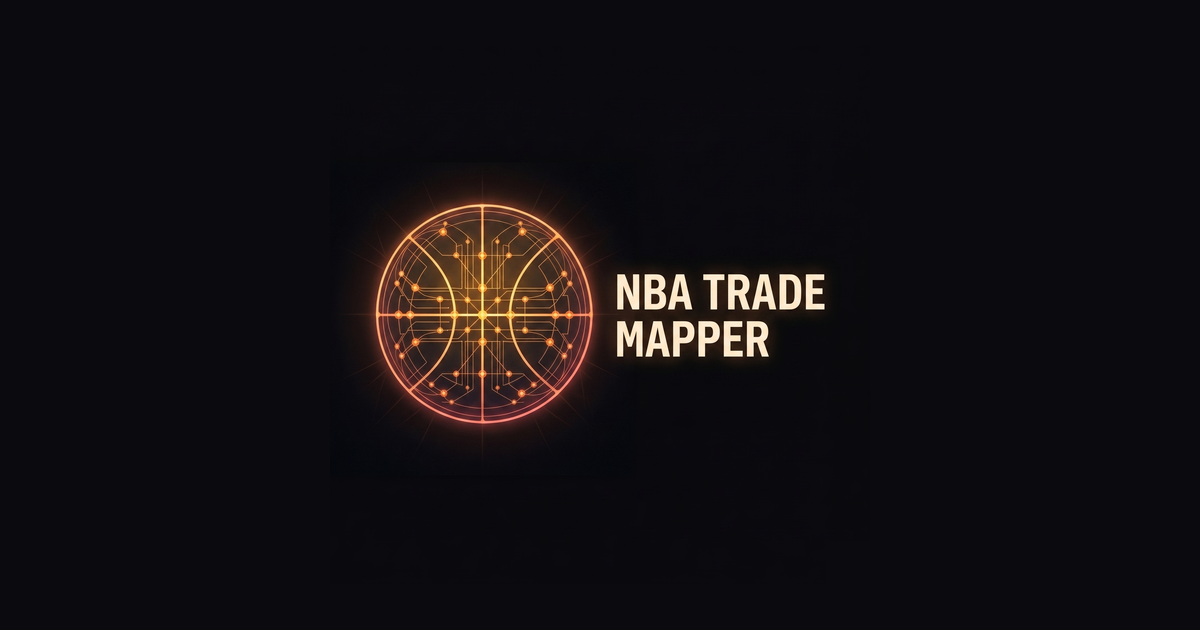
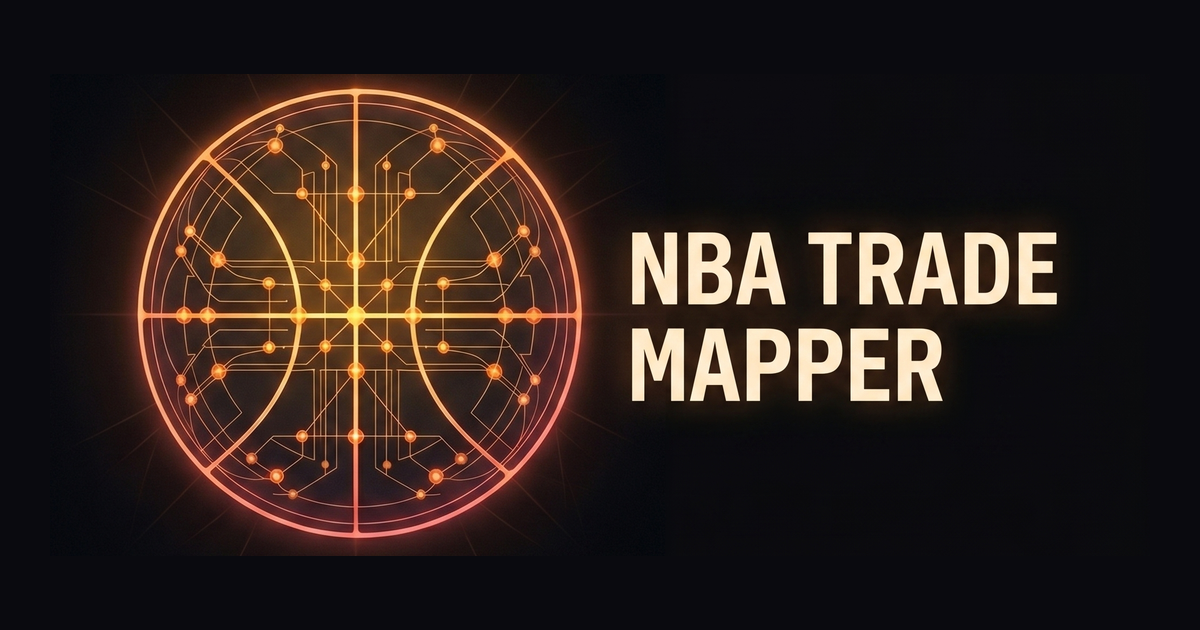
Share cards: source from horizontal lockup so wordmark reads on small thumbs (#19)
Old og-default/twitter-card composited the square Gemini lockup (basketball
above stacked wordmark) at height 540 in a 1200×630/600 canvas. At thumb
sizes the wordmark went tiny and link previews effectively read as
basketball-only.

Switch share cards to source from the new 2036×893 horizontal lockup
(brand/source-horizontal-master.png) — basketball + "NBA TRADE / MAPPER"
side-by-side, wordmark sized to match the mark. Resize width-fit to 1100
in the canvas so the lockup fills the share frame.

Build script also drops the "crop horizontal from square" step since we
now source the horizontal master directly.

diff --git a/scripts/build-brand-assets.ts b/scripts/build-brand-assets.ts
@@ -1,5 +1,7 @@
-// Build all brand asset sizes from the master source PNG.
-// Source: brand/source-29-master.png (2048×2048, the locked Gemini lockup #29)
+// Build all brand asset sizes from the master source PNGs.
+// Sources:
+//   - brand/source-29-master.png (2048×2048): square Gemini lockup #29 — used for the basketball mark crop
+//   - brand/source-horizontal-master.png (2036×893): horizontal Gemini lockup — used for share cards
 // Outputs: brand/ masters + public/ deployable assets + src/app/favicon.ico
 //
 // Run: npx tsx scripts/build-brand-assets.ts
@@ -11,6 +13,7 @@ import pngToIco from 'png-to-ico';
 
 const ROOT = process.cwd();
 const SRC = join(ROOT, 'brand/source-29-master.png');
+const SRC_HORIZONTAL = join(ROOT, 'brand/source-horizontal-master.png');
 const BRAND = join(ROOT, 'brand');
 const PUBLIC = join(ROOT, 'public');
 const APP = join(ROOT, 'src/app');
@@ -56,11 +59,9 @@ async function buildLockupCleaned() {
   return buf;
 }
 
-async function buildLockupHorizontal(lockupSquare: Buffer) {
-  const buf = await sharp(lockupSquare)
-    .resize({ width: 2400, height: 800, fit: 'cover', position: 'center' })
-    .png()
-    .toBuffer();
+async function buildLockupHorizontal() {
+  // The horizontal source is already the right composition — copy as the master.
+  const buf = await sharp(SRC_HORIZONTAL).png().toBuffer();
   await writeFile(join(BRAND, 'lockup-horizontal-master.png'), buf);
   return buf;
 }
@@ -73,12 +74,13 @@ async function makeMarkSize(markBuf: Buffer, size: number, outPath: string, opaq
   return buf;
 }
 
-async function makeOgDefault(lockupSquare: Buffer) {
+async function makeOgDefault(lockupHorizontal: Buffer) {
   const canvas = sharp({
     create: { width: 1200, height: 630, channels: 4, background: BG },
   });
-  const inner = await sharp(lockupSquare)
-    .resize({ height: 540, fit: 'contain', background: BG })
+  // Horizontal lockup ~2036×893 (ratio 2.28). Width-fit to 1100 leaves padding.
+  const inner = await sharp(lockupHorizontal)
+    .resize({ width: 1100, fit: 'contain', background: BG })
     .png()
     .toBuffer();
   const innerMeta = await sharp(inner).metadata();
@@ -91,12 +93,12 @@ async function makeOgDefault(lockupSquare: Buffer) {
   await writeFile(join(PUBLIC, 'og-default.png'), buf);
 }
 
-async function makeTwitterCard(lockupSquare: Buffer) {
+async function makeTwitterCard(lockupHorizontal: Buffer) {
   const canvas = sharp({
     create: { width: 1200, height: 600, channels: 4, background: BG },
   });
-  const inner = await sharp(lockupSquare)
-    .resize({ height: 520, fit: 'contain', background: BG })
+  const inner = await sharp(lockupHorizontal)
+    .resize({ width: 1100, fit: 'contain', background: BG })
     .png()
     .toBuffer();
   const innerMeta = await sharp(inner).metadata();
@@ -122,9 +124,11 @@ async function main() {
   console.log('→ cropping mark from source');
   const markBuf = await buildMarkOnly();
 
-  console.log('→ cleaning lockup (patching Gemini sparkle)');
-  const lockupSquare = await buildLockupCleaned();
-  await buildLockupHorizontal(lockupSquare);
+  console.log('→ cleaning square lockup (patching Gemini sparkle)');
+  await buildLockupCleaned();
+
+  console.log('→ writing horizontal lockup master');
+  const lockupHorizontal = await buildLockupHorizontal();
 
   console.log('→ generating favicon PNGs');
   const fav16 = await makeMarkSize(markBuf, 16, join(PUBLIC, 'favicon-16.png'), true);
@@ -142,9 +146,9 @@ async function main() {
   console.log('→ regenerating watermark.png (256×256 mark, used by useWatermark for in-app card capture)');
   await makeMarkSize(markBuf, 256, join(PUBLIC, 'watermark.png'), false);
 
-  console.log('→ generating og-default + twitter-card');
-  await makeOgDefault(lockupSquare);
-  await makeTwitterCard(lockupSquare);
+  console.log('→ generating og-default + twitter-card from horizontal lockup');
+  await makeOgDefault(lockupHorizontal);
+  await makeTwitterCard(lockupHorizontal);
 
   console.log('→ bundling favicon.ico (16/32/48)');
   await buildFaviconIco([fav16, fav32, fav48]);
